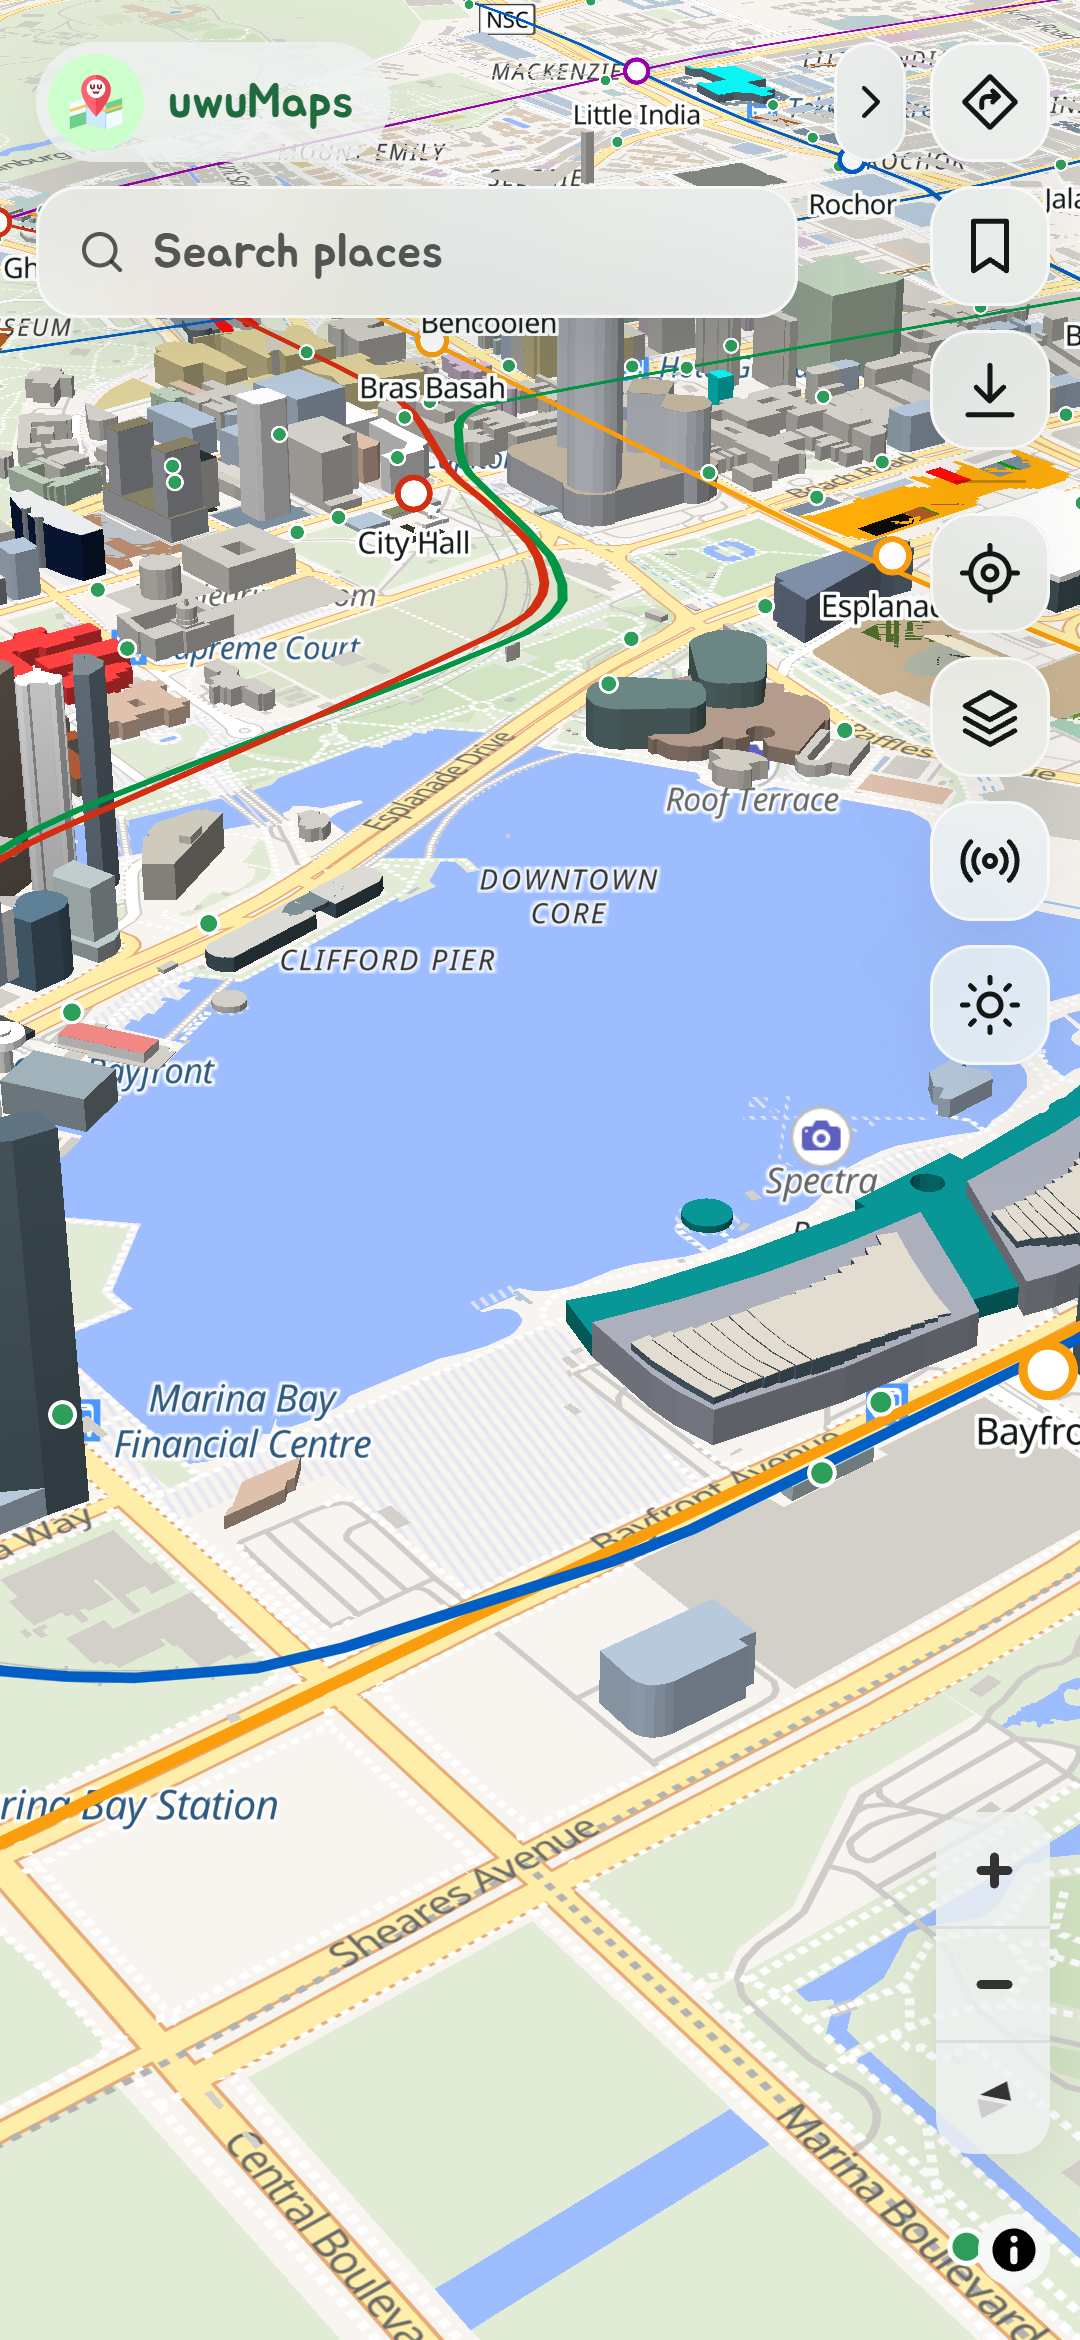
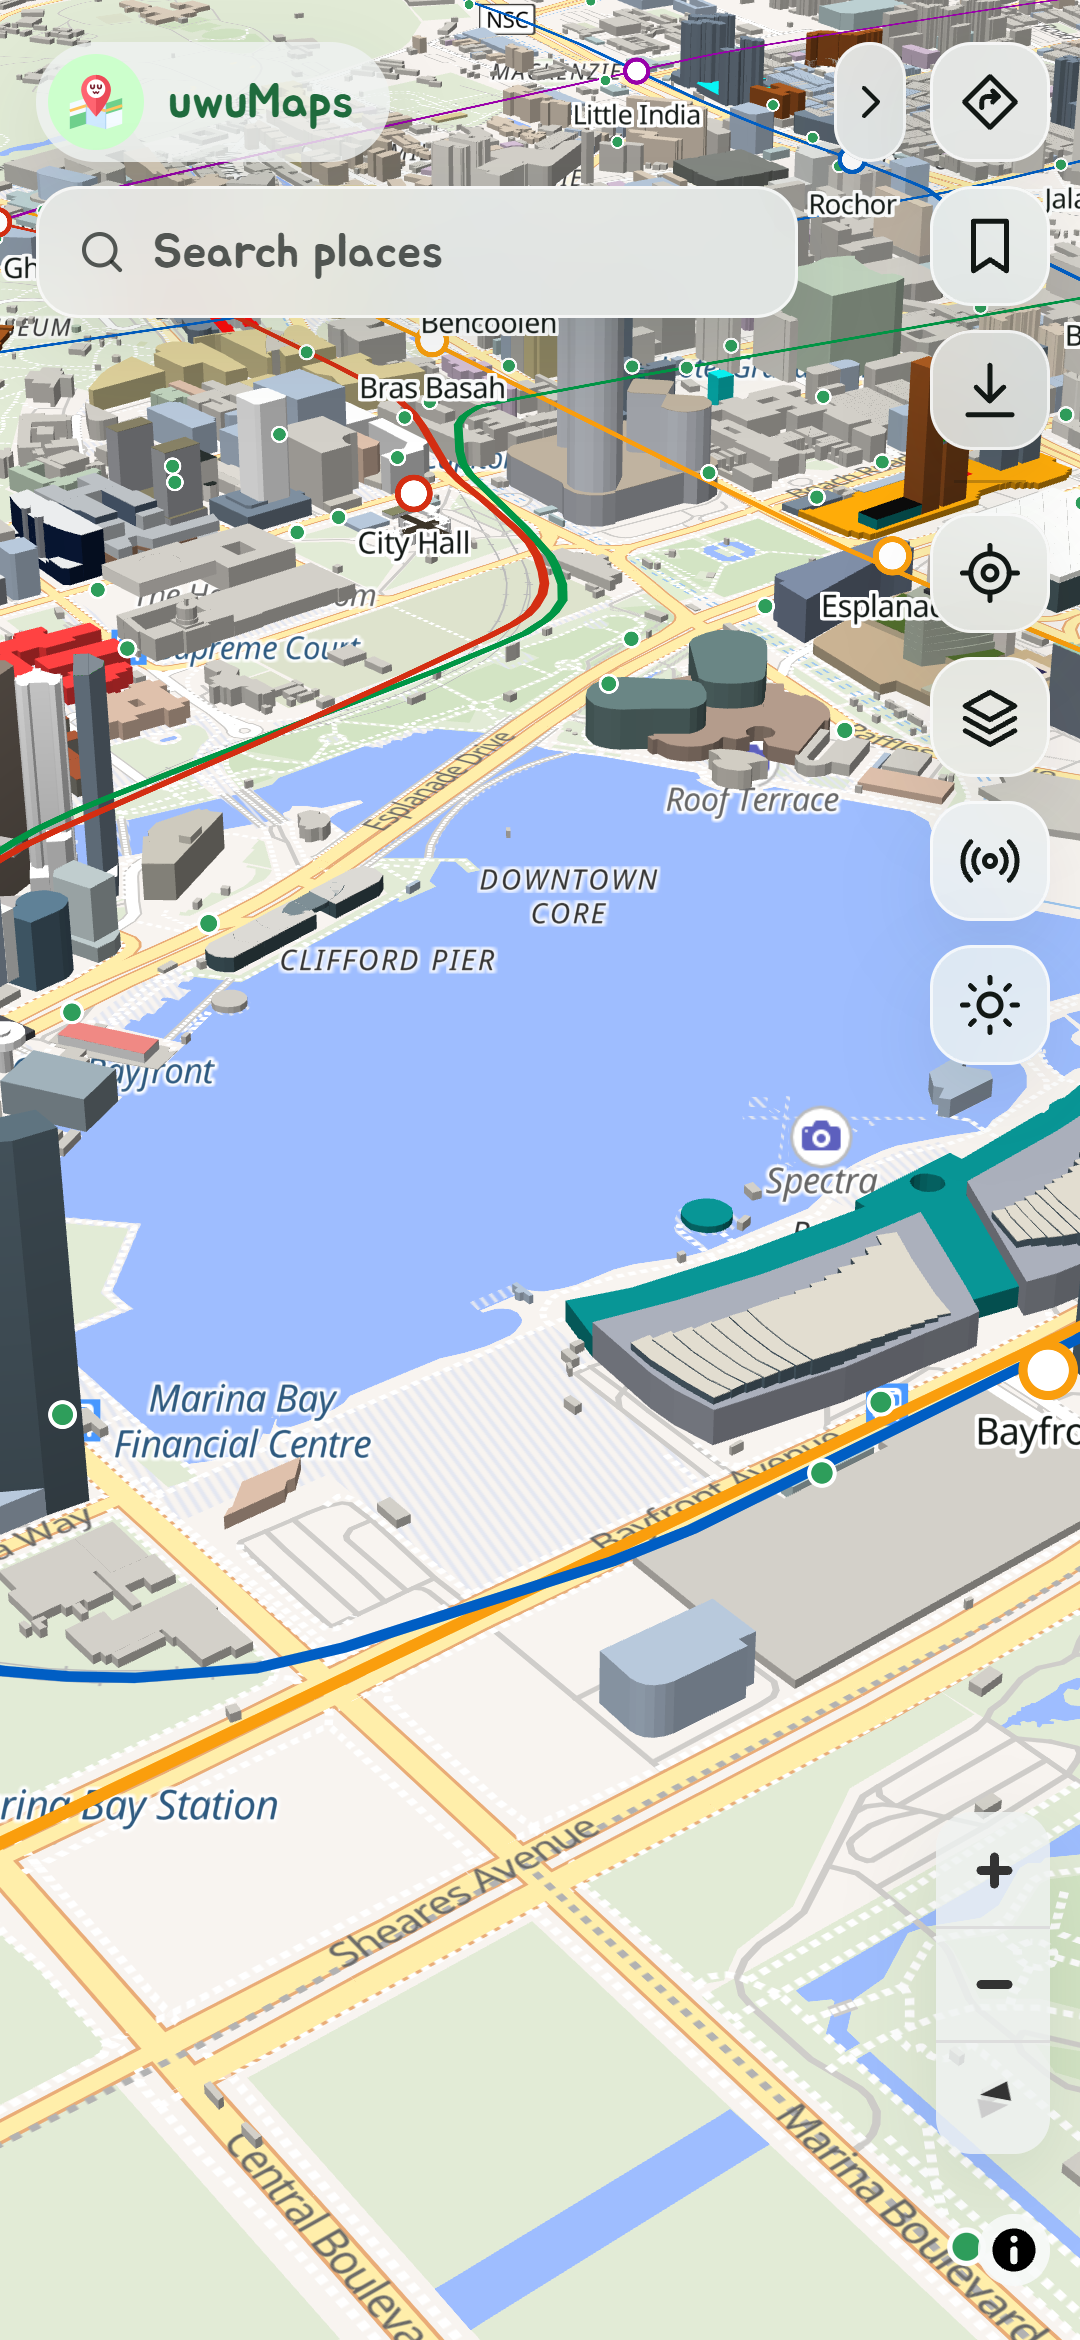
Retake manifest screenshots from the live site
- Sharper text on the wide shot; current 3D buildings on both

diff --git a/main-site/sw.js b/main-site/sw.js
@@ -5,7 +5,7 @@
 // the message handler, so a person pressing Reload on the update bar is what brings it in
 // (docs/update-bar-spec.md).
 
-const CACHE_VERSION = "v5";
+const CACHE_VERSION = "v6";
 const SHELL_CACHE = `uwumaps-shell-${CACHE_VERSION}`;
 // Not versioned, so a new version of the app doesn't throw away what's been seen or saved.
 const TILE_CACHE = "uwumaps-tiles";
